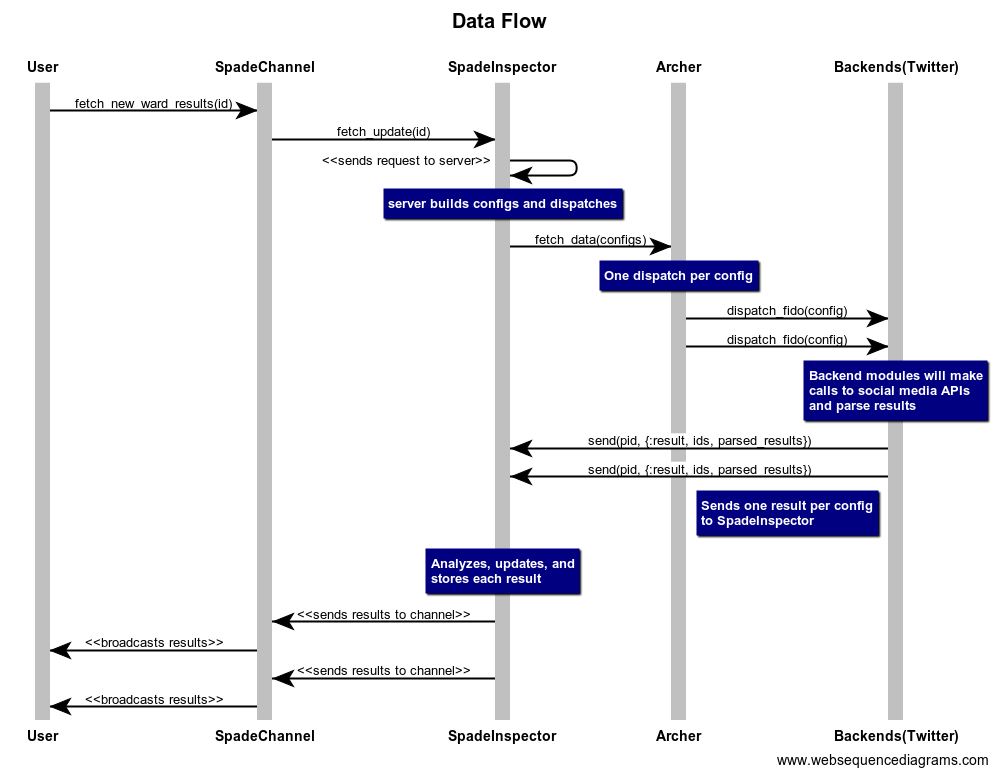
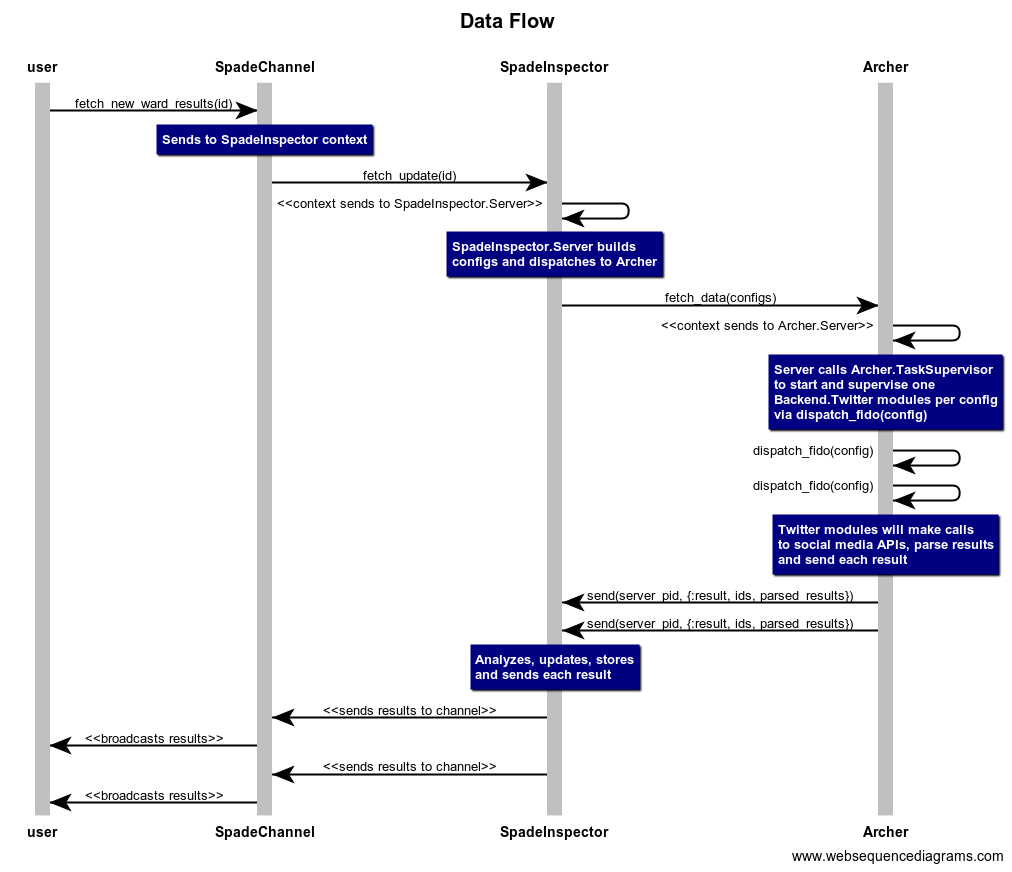
Fixed some figures, added more depth

Changed region(s): [[0.0311, 0.0, 0.995, 0.9897]]

diff --git a/_posts/2017-06-26-capstone-pt-1.md b/_posts/2017-06-26-capstone-pt-1.md
@@ -14,15 +14,9 @@ In order to limit the scope of what promised to be a significant undertaking for
 
 ## The Stack
 
-When it came to picking the tech stack for this project, my mentor, [Ryan Milstead](https://www.linkedin.com/in/ryanmilstead/), recommended that I select technologies that I wanted to work with instead of being constrained by what we had already used. There wasn’t anything particularly wrong with Rails, JQuery, or AngularJS, but with an open sandbox and my pick of tools, I selected my favorites: [Eilxir](https://elixir-lang.org/) on the backend, with [Phoenix](http://www.phoenixframework.org/) providing the web interface layer, and [React](https://facebook.github.io/react/) with [Redux](http://redux.js.org/) for the frontend demo.
+For the tech stack, my mentor, [Ryan Milstead](https://www.linkedin.com/in/ryanmilstead/), recommended that I select technologies that I wanted to work with instead of being constrained by what we had already used. There wasn’t anything particularly wrong with Rails, JQuery, or AngularJS, but with an open sandbox and my pick of tools, I selected my favorites: [Eilxir](https://elixir-lang.org/) on the backend, with [Phoenix](http://www.phoenixframework.org/) providing the web interface layer, and [React](https://facebook.github.io/react/) with [Redux](http://redux.js.org/) for the frontend demo. While Python or any number of other languages might have been more performant in terms of parsing and analyzing the collected data, few can compete with Elixir’s out of the box scalability, fault tolerance, and maintainability.
 
-### Elixir and Phoenix
-
-Full disclosure: Elixir - a functional language built on top of Erlang and compiles into BEAM - is my favorite language, so I’m a little biased. While Python or any number of other languages might have been more performant in terms of parsing and analyzing the collected data, few can compete with Elixir’s out of the box scalability, fault tolerance, and maintainability.
-
-In order to develop a wider variety of skills in this academic setting, I chose to use two different Phoenix endpoints for my user interaction layer. First, a JSON API for handling all things related to the user profile, settings, and authentication. Second, I would use a [famously](http://www.phoenixframework.org/blog/the-road-to-2-million-websocket-connections) efficient Phoenix Channel to manage websocket connections that exposes social media monitoring functionality to the user.
-
-In order to collect the data, I would utilize Elixir’s built in Erlang OTP abstractions to supervise the fetching, parsing, and serving results from Twitter.
+In order to develop a wider variety of skills in this academic setting, I chose to expose two different Phoenix endpoints as my user interaction layer. The first is a JSON API for handling all things related to the user profile, settings, and authentication. For the other, I would use the [famously](http://www.phoenixframework.org/blog/the-road-to-2-million-websocket-connections) efficient Phoenix Channel to manage websocket connections that exposes the social media monitoring functionality of the app to the user. In regards to data collection from external API's and analysis, I chose to utilize Elixir's built in Erlang OTP abstraction.
 
 ### Living on the Edge
 
@@ -31,59 +25,44 @@ Since this is an app I’m building in order to further my education, I opted to
 While the Phoenix teams does emphasize that these changes are suggestions for how to organize your code, for the purposes of this project I chose to treat it as gospel. For me, these are the three big takeaways from this new version:
 
 1. While Phoenix has only ever been the web layer for your Elixir app, the new directory structure makes that abundantly clear and better defines its role. Everything relating to collecting and serving Phoenix web endpoints (JSON, HTML, websockets, etc.) is neatly packed away within the `lib/my_app` directory, including the `/web` directory.
-2. On a similar note, models are gone. Where the web interface was once build around the models, developers now instead create separate interfaces for various aspects of their apps. These context modules exist within their own directories, acting as a boundary for the underlying system of schemas and modules. Your endpoints, located in the `/web` directory, will access these context modules to gather data to serve to users. More on this later.
+2. On a similar note, models are gone. Whereas Phoenix's web interface was once built around models within the `/web` directory, we now extract that data fetching, along with implementation and support modules, to their own, self-contained systems. The functionality within those systems is exposed via a context module that acts as a boundary and shares the name of the system (i.e. `clients.ex` is the context module for the `Clients` system and is located in the `lib/my_app/clients` directory). Instead of making `Repo` calls or writing complex code from within the web interface, your endpoints will access these context modules to gather data to serve to users. If that's a bit confusing, just hang on - it'll make mores sense as we get into the app.
 3. Assets no longer clog up the root directory. All of your external assets are stored in the `/assets` directory. Since I was using Webpack for this project, this was a particular pain for me initially, but ultimately it makes the project significantly easier to navigate. If you’re interested, [here’s how I setup and configured](https://github.com/davelively14/configs/blob/master/phoenix_1.3_react_redux.md) my Phoenix 1.3 app to work with Webpack 2, React, Redux, and React Router.
 
 At its core, Phoenix 1.3 provides a forcing mechanism to design with intent. You have to think about what you’re going to do before you do it. I struggled early with the new structure, but ultimately these guidelines lead to better app development, with clear divisions of responsibility, and more reliable code.
 
 ## The stuff dreams are made of
 
-A quick note on the nomenclature I chose. In keeping with the Phoenix mythical bird theme, I named my systems after characters from the classic 1941 film, [The Maltese Falcon](https://en.wikipedia.org/wiki/The_Maltese_Falcon_(1941_film)). The relevant part of the premise is rather simple: A prospective **Client** approaches Sam **Spade** with an interesting case. Spade takes the case and dispatches his partner, Miles **Archer**, to gather information on the quarry, but ultimately it's up to Spade to solve the mystery. Fortunately, we made a few improvements on the movie, so if/when Archer dies, he’ll be seamlessly revived and put back into action thanks to Elixir’s awesome reliability.
-
-![Figure 1](/img/capstone/web_system.png)
-<small>**Figure 1.** *`Clients` and `Spade` systems expose their interface to the `Web` system. The `Clients` controllers requests data via the `Flatfoot.Clients` context module (not the `Repo`) before serving via JSON endpoint. Similarly, users may use `SpadeChannel` to request data through the `Flatfoot.Spade` context module. `Spade` `SpadeInspector` and `Archer` .*</small>
-
-In this app’s basic form, the `Clients` system handles all requests relating to the management of users and their preferences, such as creating a profile, editing that profile, and authorizing access via session tokens. The `Spade` system is where the significant action happens. Via websocket connection, users may request retrieval of persisted results or request new results. When those new results are requested, `Spade` will utilize`SpadeInspector` to manage deployment of `Archer` to fetch, parse and return results. Upon receipt of new results, `SpadeInspector` will evaluate those results, store them, and asynchronously return them to the user.
+A quick note on the nomenclature I chose. In keeping with the Phoenix mythical bird theme, I named my systems after characters from the classic 1941 film, [The Maltese Falcon](https://en.wikipedia.org/wiki/The_Maltese_Falcon_(1941_film)). The relevant part of the premise is rather simple: A prospective **Client** approaches Sam **Spade** with an interesting case. Spade takes the case and dispatches his partner, Miles **Archer**, to gather information on the quarry and report back, but ultimately it's up to Spade to solve the mystery. Fortunately, we made a few improvements on the movie, so if Archer just happens dies, he’ll be seamlessly revived and put back into action thanks to the magic of OTP.
 
 ### Organizing in Phoenix 1.3
 
 We can see a basic outline of the architecture quite clearly in the new directory structure. Each system has it's own directory within the `/lib/flatfoot` directory. Also worth noting, the `/web` directory - once a clinger to the root directory in early versions of Phoenix - now finds a more appropriate home.
 
-<pre>
-flatfoot
-|-- assets
-|-- config
-|-- <b>lib/flatfoot</b>
-|   |-- <b>archer</b>
-|   |-- <b>clients</b>
-|   |-- data
-|   |-- shared
-|   |-- <b>spade</b>
-|   |-- <b>spade_inspector</b>
-|   |-- <b>web</b>
-|   |-- application.ex
-|   |-- repo.ex
-|
-|-- priv
-|-- test
-|-- .eslintrc.js
-|-- .gitignore
-|-- .travis.yml
-|-- README.md
-|-- mix.exs
-|-- mix.lock
-</pre>
+![Figure 1](/img/capstone/dir_tree_overview.png)
+<small>**Figure 1.** *Flatfoot directory tree in Phoenix 1.3.0-rc*</small>
 
 If you’re used to running a third party bundler like [webpack](https://webpack.github.io/) with Phoenix 1.2 and earlier, you’re also likely to notice how uncluttered the root directory is. `package.json`, `webpack.config.js`, and the `node_module` directory are now all packed away quite neatly within the `/assets` directory.
 
 We're left with a clean, easy to reference directory tree, and clearly defined systems.
 
+### System design
+
+![Figure 2](/img/capstone/web_system.png)
+<small>**Figure 2.** *Flatfoot overview.*</small>
+
+In this app's most basic form, all user interaction is handled by the `Web` system. It's responsible for handling requests from the user, requesting and persisting data from other systems, and returning information to the user. The `Clients` and `Spade` systems expose their interface to the `Web` system via their context modules. The `Clients` system handles all requests relating to the management of users and their preferences, such as creating a profile, editing that profile, and authorizing access via session tokens. The `Spade` system is where the significant action begins.
+
+![Figure 3](/img/capstone/data_flow.png)
+<small>**Figure 3.** *Data flow.*</small>
+
+Via the `SpadeChannel` websocket connection, users may request retrieval of persisted results or request new results. Figure 2 depicts what happens when a user requests new results. `SpadeChannel` will access the `SpadeInspector` context to initiate deployment and monitoring of `Archer` and its implementation modules to fetch, parse and return results. Upon receipt of new results, the `server.ex` within the `SpadeInspector` system will evaluate those results, store them, and asynchronously return them to the user.
+
 ## Contexts as API Boundaries
 
-As Mikel Myskala has [pointed out](http://michal.muskala.eu/2017/05/16/putting-contexts-in-context.html), the biggest mind shift here is understanding that we're exposing functionality that
+As Mikel Myskala has [pointed out](http://michal.muskala.eu/2017/05/16/putting-contexts-in-context.html), the biggest mind shift here is understanding that we're only minimally coupling our data to our application. One of the more challenging aspects was developing optimal boundaries for my application - and I'm still not entirely sure I did.
 
-![Figure 2](/img/capstone/boundaries.png)
-<small>**Figure 2.** *Systems should only be accessed through the functions of their context modules: `Flatfoot.Clients`, `Flatfoot.Spade`, `Flatfoot.SpadeInspector`, and `Flatfoot.Archer`.*</small>
+![Figure 4](/img/capstone/boundaries.png)
+<small>**Figure 4.** *Flatfoot's boundaries*</small>
 
 The `Clients` system gives us a better look at we used context modules to manage access across the system boundry. Note that I chose to slightly break from Phoenix 1.3 generator convention by storing all Ecto schemas within the `/clients/schema` directory. While there is no need to do this, I found it easier to read as I added complexity to my systems.
 
